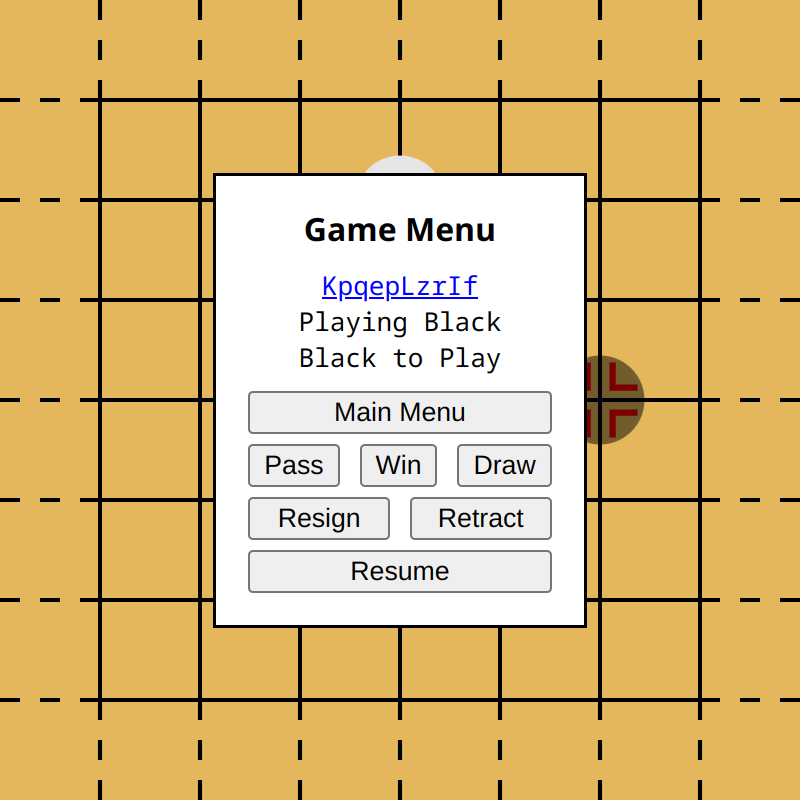
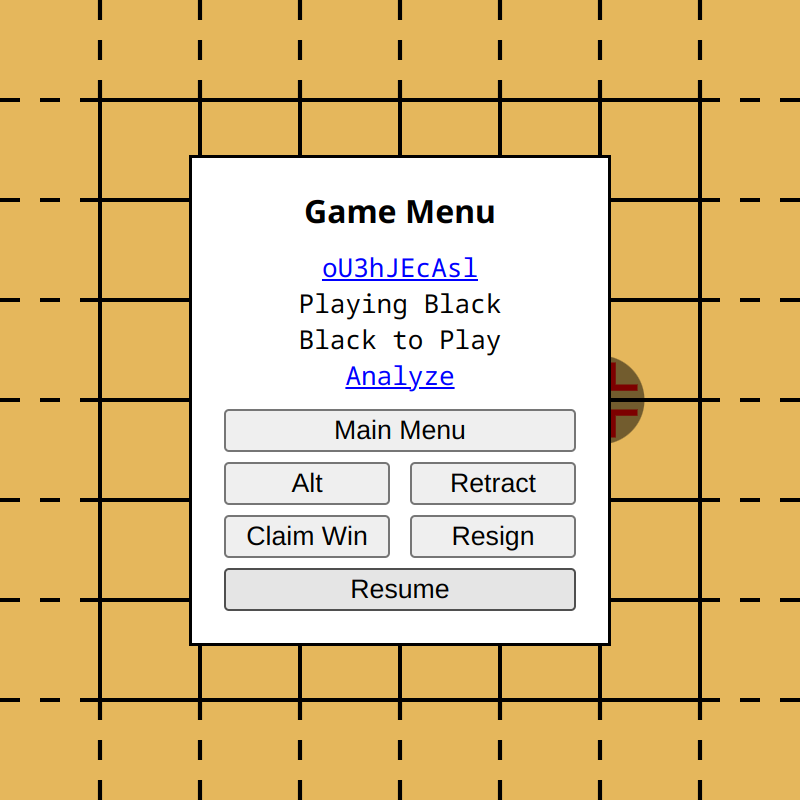
Update screenshots

Changed region(s): [[0.2188, 0.1875, 0.7812, 0.8125]]

diff --git a/README.md b/README.md
@@ -18,11 +18,11 @@ A web app for playing [Connect6] games online.
 <table>
   <tr>
     <td><img alt="Online Dialog" src="assets/online-dialog.png" /></td>
-    <td><img alt="Game Menu" src="assets/game-menu.png" /></td>
+    <td><img alt="Game Play" src="assets/game-play.png" /></td>
   </tr>
   <tr>
-    <td><img alt="Game Play" src="assets/game-play.png" /></td>
-    <td><img alt="Confirm Move" src="assets/confirm-move.png" /></td>
+    <td><img alt="Game Menu" src="assets/game-menu.png" /></td>
+    <td><img alt="Game Menu Alt" src="assets/game-menu-alt.png" /></td>
   </tr>
 </table>
 
